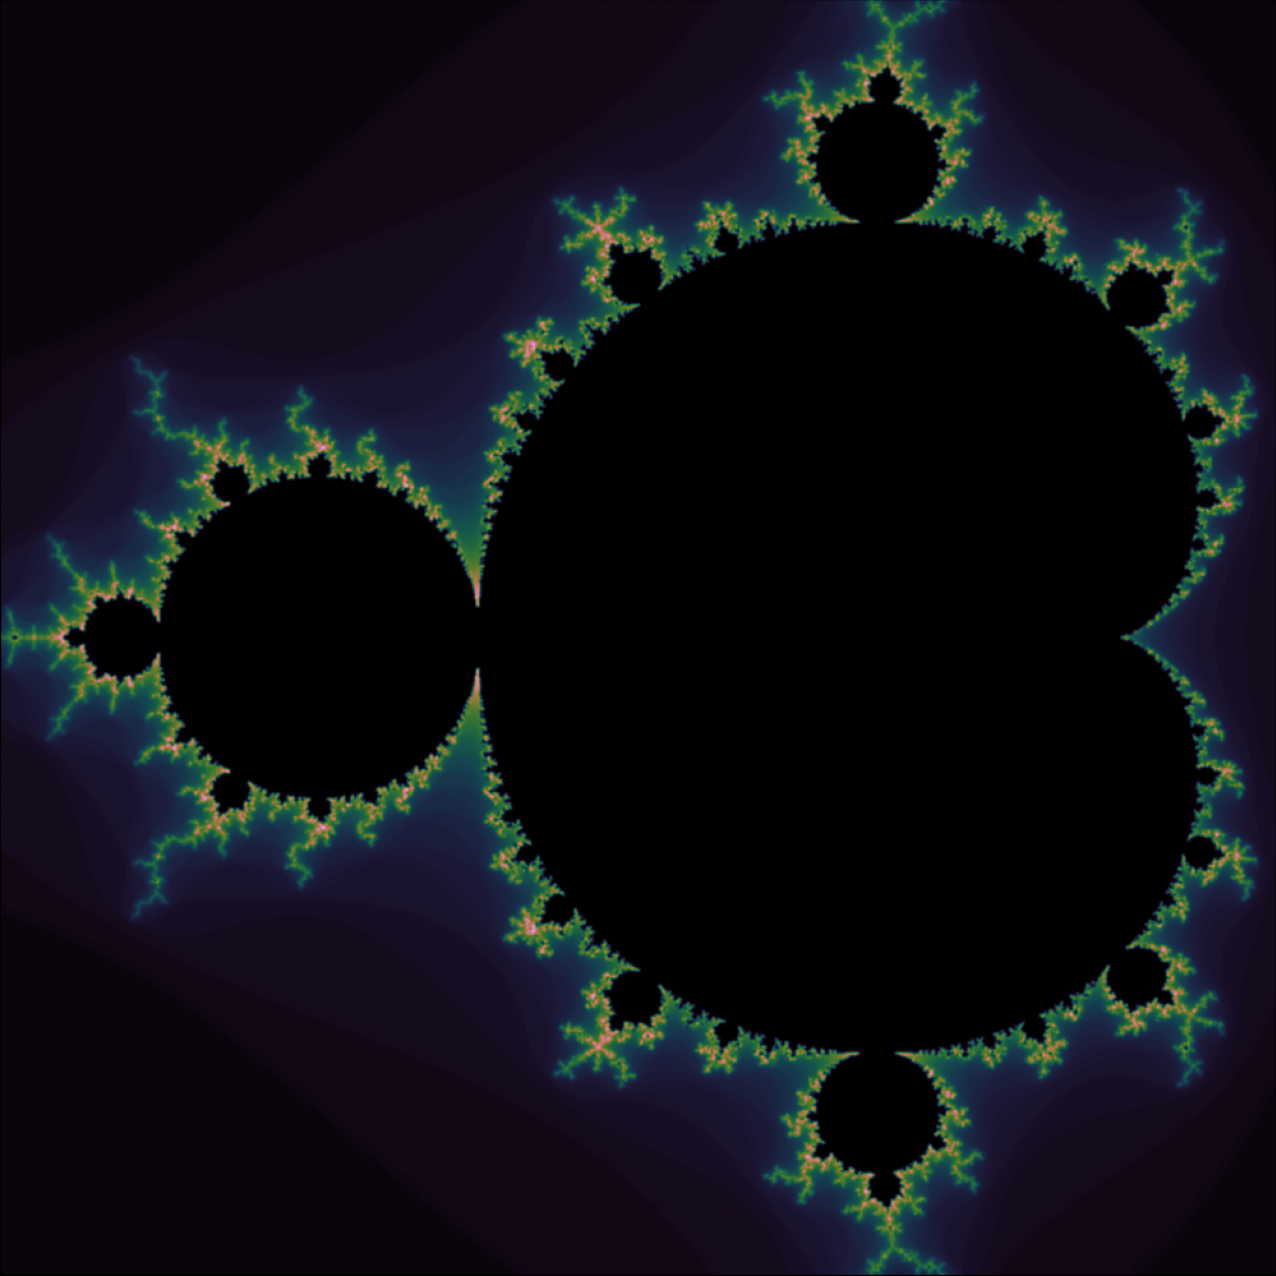
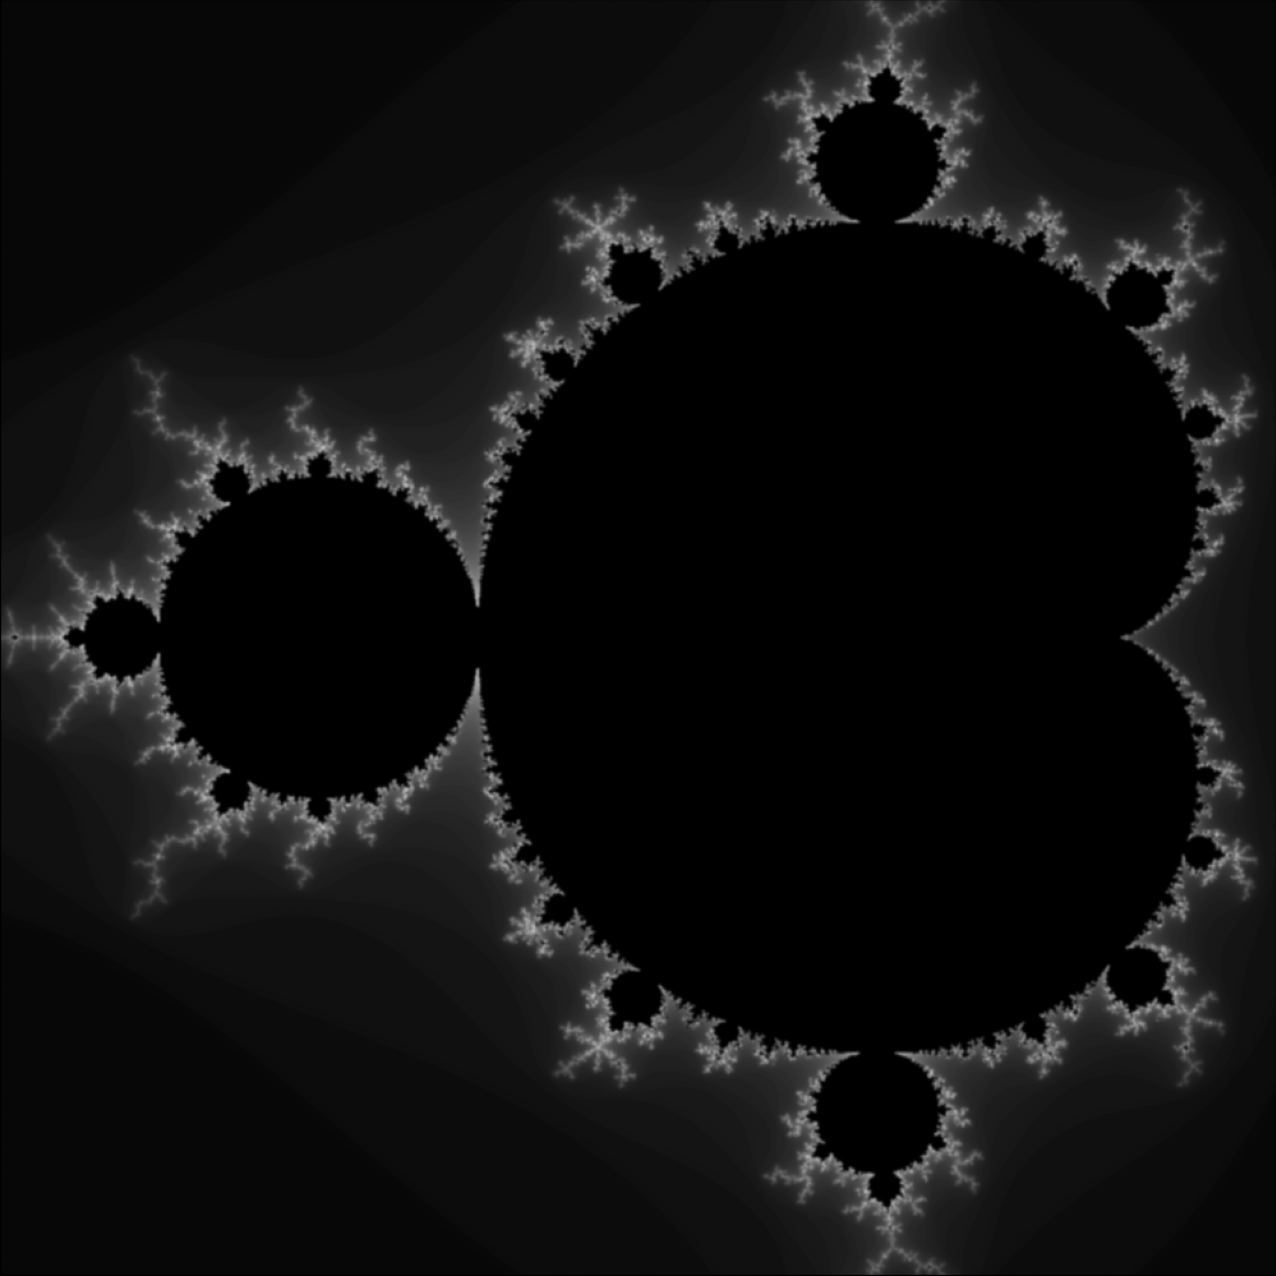
Working and looking okay

Changed region(s): [[0.0, 0.0, 1.0, 1.0]]

diff --git a/mandelplot.html b/mandelplot.html
@@ -43,19 +43,41 @@
         <h3>Mandelplot: Plot from the Mandelbrot set</h3>
       </div>
 
-      <label for="real">Image centre (real): </label>
-      <input id="real" type="number" value="-0.5" /><br /><br />
+      <div class="subpage-wrapper">
+        <div class="content-wrapper clearfix">
+          <div class="subpage-left">
+            <label for="real">Image centre (real): </label>
+            <input id="real" type="number" value="-0.5" /><br /><br />
 
-      <label for="imag">Image centre (imaginary): </label>
-      <input id="imag" type="number" value="0.0" /><br /><br />
+            <label for="imag">Image centre (imaginary): </label>
+            <input id="imag" type="number" value="0.0" /><br /><br />
 
-      <label for="zoom">Image zoom: </label>
-      <input id="zoom" type="number" value="1.0" /><br /><br />
+            <label for="zoom">Image zoom: </label>
+            <input id="zoom" type="number" value="1.0" /><br /><br />
 
-      <button id="clickButton" onClick="image()">Generate image!</button
-      ><br /><br />
+            <label for="depth">Image depth:</label>
+            <select name="depth" id="depth">
+              <option value="low" selected>Low</option>
+              <option value="medium">Medium</option>
+              <option value="high">High</option>
+            </select>
+            <br /><br />
 
-      <img id="image" class="center" src="images/mandelbrot.png" />
+            <button id="clickButton" onClick="image()">Generate image!</button
+            ><br /><br />
+          </div>
+
+          <div class="subpage-right"></div>
+            <img
+              id="image"
+              src="images/mandelbrot.png"
+              alt="Mandelbrot Set"
+              class="center"
+              style="width: 600px; height: 600px"
+            />
+          </div>
+        </div>
+      </div>
 
       <footer>
         <p>

diff --git a/scripts/mandelbrot.js b/scripts/mandelbrot.js
@@ -7,6 +7,7 @@ const image = () => {
   const real = document.getElementById("real").value;
   const imag = document.getElementById("imag").value;
   const zoom = document.getElementById("zoom").value;
+  const depth = document.getElementById("depth").value;
   const url = baseURL + "/mandelbrot";
   const params = {
     method: "POST", // Unless this is present it will default to "GET"
@@ -17,6 +18,7 @@ const image = () => {
       real: real,
       imag: imag,
       zoom: zoom,
+      depth: depth,
     }),
   };
 

diff --git a/covid.html b/covid.html
@@ -32,6 +32,7 @@
             <li><a href="gravity.html">1D gravity</a></li>
             <li><a href="#" class="selected">COVID-19</a></li>
             <li><a href="maths.html">Maths</a></li>
+            <li><a href="mandelplot.html">Mandelbrot</a></li>
             <li><a href="index.html#contact">Contact</a></li>
           </ul>
         </nav>

diff --git a/maths.html b/maths.html
@@ -32,6 +32,7 @@
             <li><a href="gravity.html">1D gravity</a></li>
             <li><a href="covid.html">COVID-19</a></li>
             <li><a href="#" class="selected">Maths</a></li>
+            <li><a href="mandelplot.html">Mandelbrot</a></li>
             <li><a href="index.html#contact">Contact</a></li>
           </ul>
         </nav>

diff --git a/gravity.html b/gravity.html
@@ -32,6 +32,7 @@
             <li><a href="#" class="selected">1D gravity</a></li>
             <li><a href="covid.html">COVID-19</a></li>
             <li><a href="maths.html">Maths</a></li>
+            <li><a href="mandelplot.html">Mandelbrot</a></li>
             <li><a href="index.html#contact">Contact</a></li>
           </ul>
         </nav>

diff --git a/orbital.html b/orbital.html
@@ -32,6 +32,7 @@
             <li><a href="gravity.html">1D gravity</a></li>
             <li><a href="covid.html">COVID-19</a></li>
             <li><a href="maths.html">Maths</a></li>
+            <li><a href="mandelplot.html">Mandelbrot</a></li>
             <li><a href="index.html#contact">Contact</a></li>
           </ul>
         </nav>

diff --git a/functions/mandelbrot/lambda.py b/functions/mandelbrot/lambda.py
@@ -35,12 +35,23 @@ def handler(event, context, verbose=True):
     real_centre = float(body["real"])
     imag_centre = float(body["imag"])
     patch_zoom = float(body["zoom"])
+    patch_depth = body["depth"]
     rmin, rmax = real_centre-1./patch_zoom, real_centre+1./patch_zoom
     imin, imax = imag_centre-1./patch_zoom, imag_centre+1./patch_zoom
-    max_iters = 64
+    if patch_depth == 'low':
+        max_iters = 64
+    elif patch_depth == 'medium':
+        max_iters = 128
+    elif patch_depth == 'high':
+        max_iters = 256
+    else:
+        raise Exception("Invalid patch depth.")
     width, height = 1000, 1000
+    cmap = 'binary_r'
+    sigma = 1.
     data = mandelbrot.create_image(
-        rmin, rmax, imin, imax, max_iters, width, height)
+        rmin, rmax, imin, imax, max_iters, width, height,
+        cmap=cmap, figsize=(6, 6), dpi=224, sigma=sigma)
 
     # Return the response
     response = {
